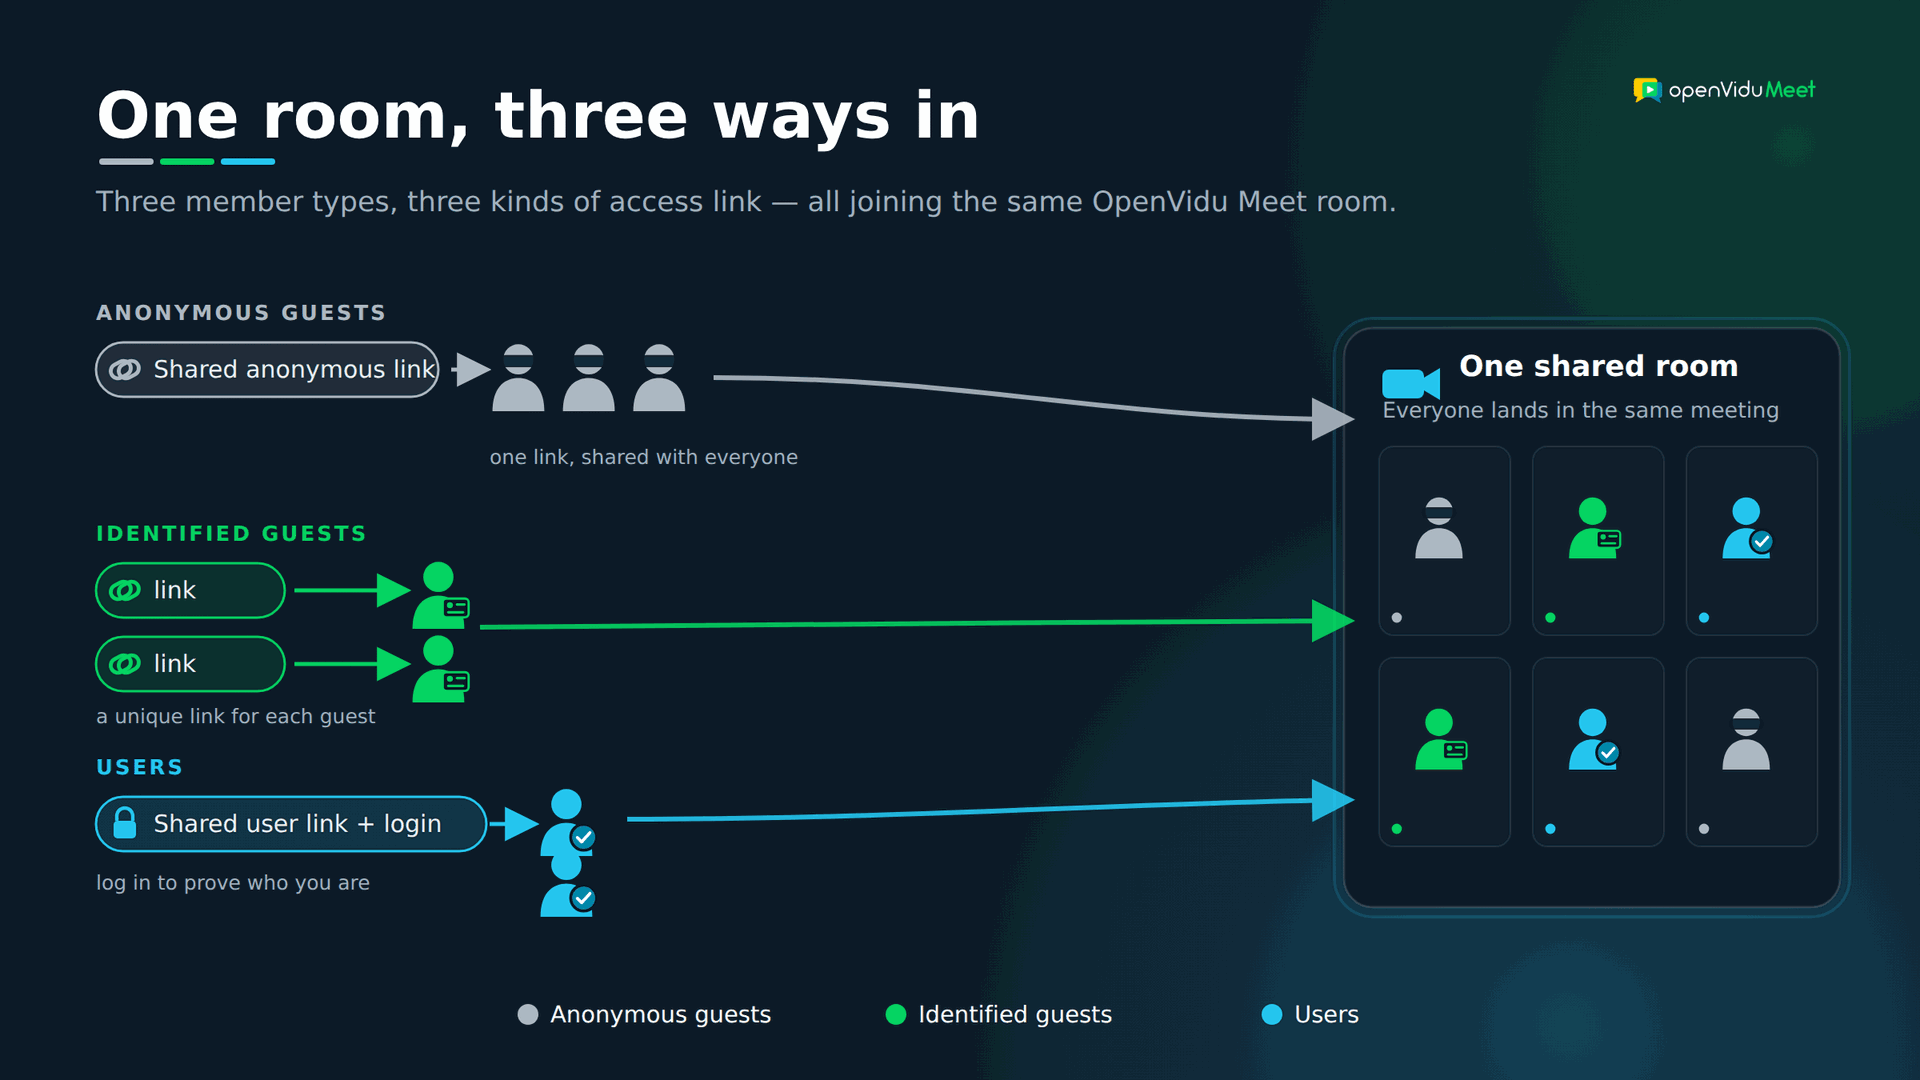
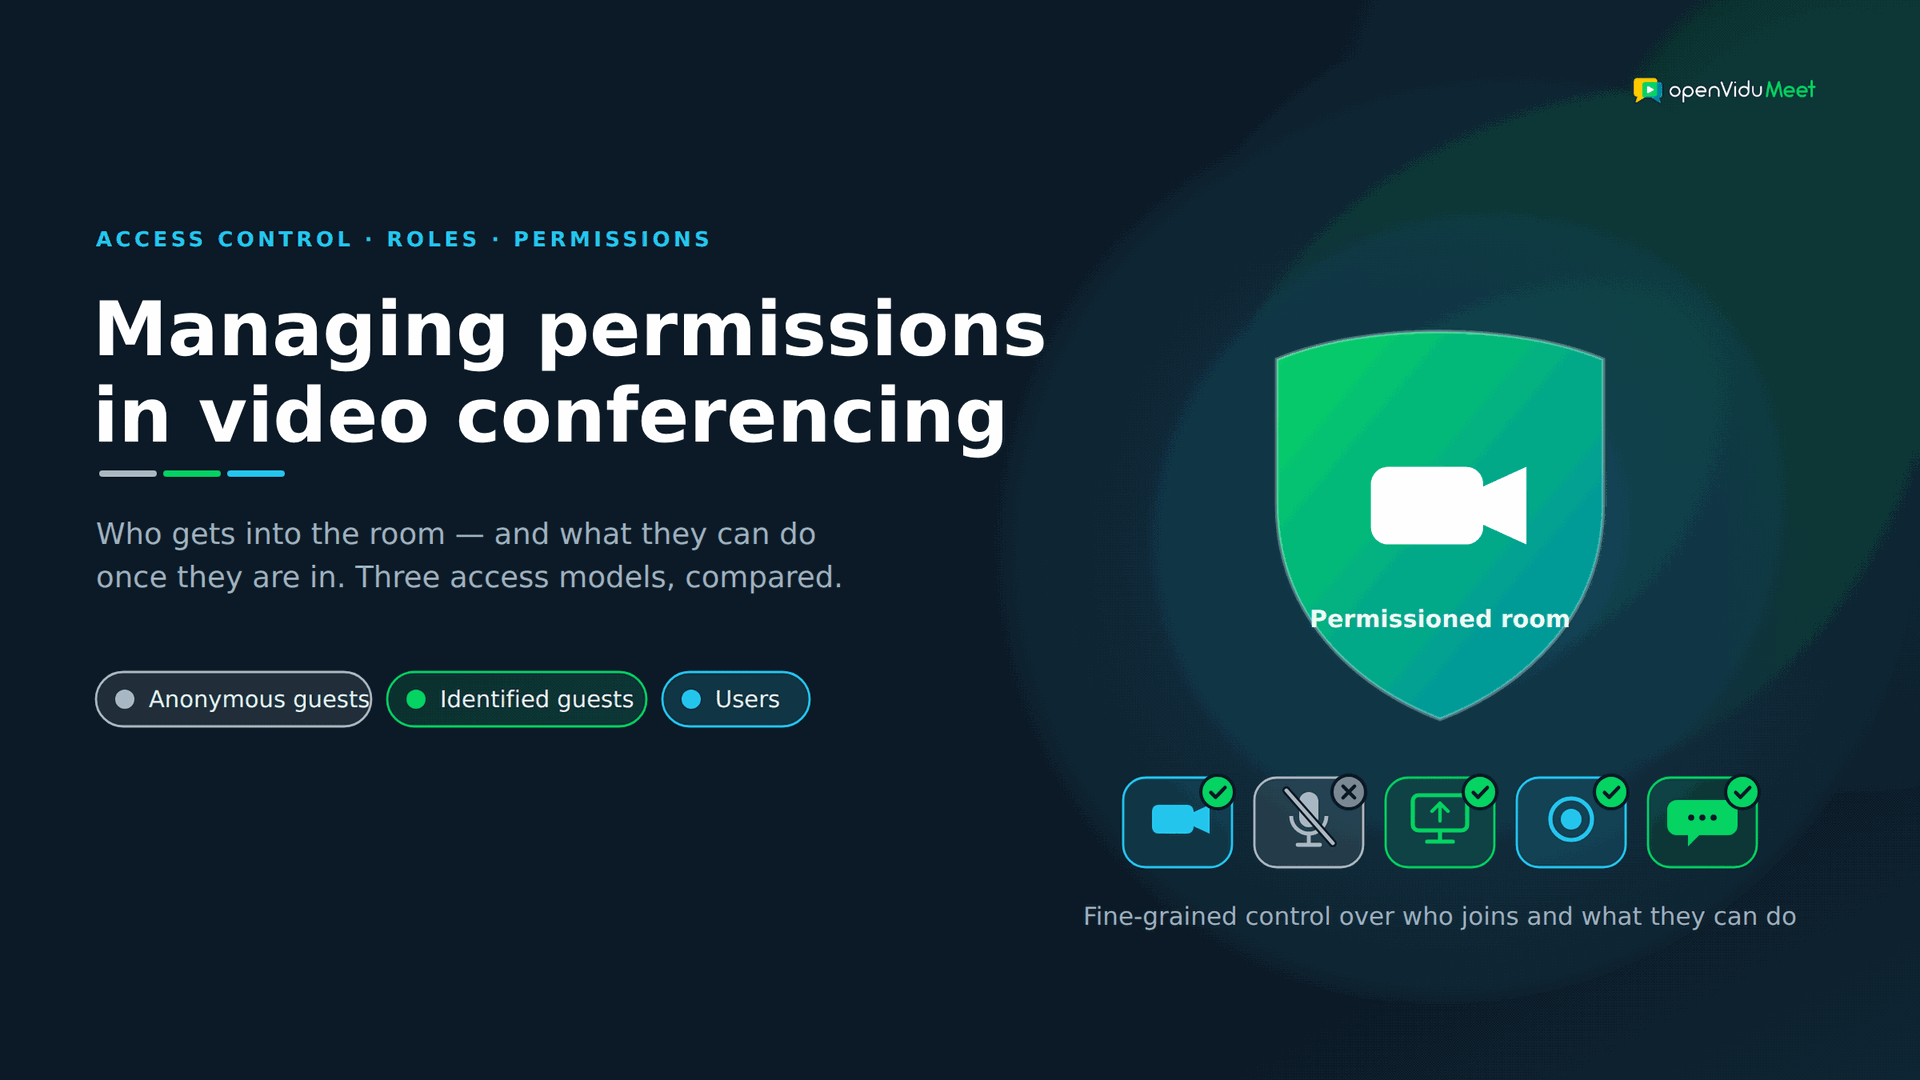
Add images for video conferencing permissions blog post

diff --git a/docs/blog/posts/2026-07-10-video-conferencing-permissions.md b/docs/blog/posts/2026-07-10-video-conferencing-permissions.md
@@ -65,9 +65,9 @@ Every product names these ideas a little differently. Throughout this post we'll
 
 - **Participant.** Anyone actually present in a meeting, whatever route they took to get there.
 - **Room member.** Any individual granted access to a specific room. There are three kinds, distinguished by _how_ they prove who they are.
-    - **User.** A room member with a **registered account** in the system. They log in to get in.
-    - **Identified guest.** A room member _without_ an account, added ahead of time under a fixed name. They receive their own private link and never log in.
-    - **Anonymous guest.** Someone without an account who accesses through a shared link and just types a display name before joining.
+    - ![User icon](/assets/images/blog/video-conferencing-permissions/icon-user.png){ width="22" style="vertical-align:middle;margin-right:6px" } **User.** A room member with a **registered account** in the system. They log in to get in.
+    - ![Identified guest icon](/assets/images/blog/video-conferencing-permissions/icon-identified-guest.png){ width="22" style="vertical-align:middle;margin-right:6px" } **Identified guest.** A room member _without_ an account, added ahead of time under a fixed name. They receive their own private link and never log in.
+    - ![Anonymous guest icon](/assets/images/blog/video-conferencing-permissions/icon-anonymous-guest.png){ width="22" style="vertical-align:middle;margin-right:6px" } **Anonymous guest.** Someone without an account who accesses through a shared link and just types a display name before joining.
 - **Role and permissions.** A **role** (like _Moderator_ or _Speaker_) is a named bundle of **permissions** — the individual capabilities that decide what someone can do once inside.
 
 With that shared vocabulary in place, here are the three models. One thing to keep in mind up front: they aren't mutually exclusive — a single room can use all three at once, each person joining through their own kind of link. Most real apps end up mixing them rather than picking just one.
@@ -164,6 +164,10 @@ On top of per-room membership, this model unlocks **organization-wide rules**:
 
     See [Users](../../meet/features/users/overview.md).
 
+That completes the three models. Here they are side by side — three member types, each entering through its own kind of access link, all landing in the same room:
+
+![The three access-link types — one shared anonymous link for anonymous guests, a unique link per identified guest, and a shared user link with login for users — all joining the same OpenVidu Meet room](/assets/images/blog/video-conferencing-permissions/three-ways-in.png 'One room, three ways in')
+
 ## Beyond access: fine-grained, per-person permissions
 
 Notice that all three models answer "how do you get _in_." A separate question is "what can you _do_ once you're in" — and that layer is **orthogonal**. You can attach the same fine-grained permission set to an anonymous guest, an identified guest, or a user.
@@ -176,6 +180,10 @@ OpenVidu Meet 3.8.0 introduced 14 boolean permissions for exactly this. Grouped 
 - **Communication:** `canReadChat`, `canWriteChat`, `canChangeVirtualBackground`
 - **Meeting management:** `canJoinMeeting`, `canEndMeeting`, `canKickParticipants`, `canMakeModerator`, `canShareAccessLinks`
 - **Recording:** `canRecord`, `canRetrieveRecordings`, `canDeleteRecordings`
+
+Each role — `Moderator` and `Speaker` — ships with sensible defaults, and you can flip any individual permission for any member. The highlighted cells below show two such overrides: a Speaker granted `canRecord`, and a Moderator whose `canDeleteRecordings` was turned off.
+
+![Permissions matrix: the 14 OpenVidu Meet permissions grouped into Media, Communication, Meeting management and Recording, with on/off toggles for the Moderator and Speaker roles and two cells customized from their role defaults](/assets/images/blog/video-conferencing-permissions/fine-grained-permissions.png 'Start from a role, tune it per person')
 
 A member's effective permissions start from their base role and get overridden individually:
 
